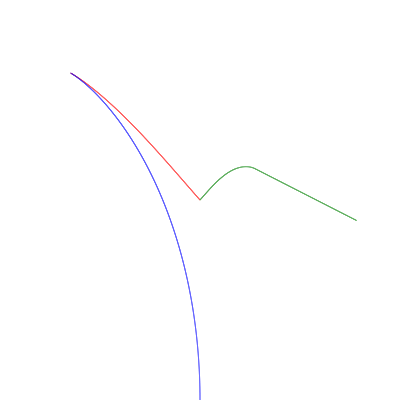
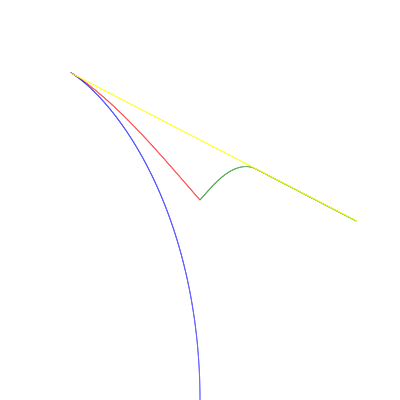
update

diff --git a/wolf-sheep-cn.html b/wolf-sheep-cn.html
@@ -213,9 +213,9 @@ class="math inline">||<em>W</em><em>A</em>|| + ||<em>A</em><em>G</em>||</spa
 class="math inline">||<em>W</em><em>B</em>|| ≤ ||<em>W</em><em>A</em>||</span>.</p>
 <p>结果如图 <img src="./wolf-sheep/tricky.png" alt="tricky.png" /> 另见
 <a href="./wolf-sheep/racing.html">racing.html</a> tricky 策略结果</p>
-<p>在时刻 1.819 时, 狼在坐标 (-0.6467803614726987, 0.6345802337671108)
-捉到羊 A. 此时羊 B 位于 (0.7832758424369813, -0.10277986541692728),
-两羊相距 1.6089626043538923 总时间 5.036925208707695.</p>
+<p>在时刻 1.82 时, 狼在坐标 (-0.6459131471422915, 0.6362020246019914)
+捉到羊 A. 此时羊 B 位于 (0.7817926466362477, -0.10550243694239525),
+两羊相距 1.6088720713169389 总时间 5.037744142633788</p>
 <p>实现见 <a href="./wolf-sheep/tricky.js">tricky.js</a>.</p>
 </body>
 </html>

diff --git a/wolf-sheep/scratch.html b/wolf-sheep/scratch.html
@@ -1,0 +1,18 @@
+<html lang="en">
+<head>
+    <script src="draw.js" ></script>
+    <script src="agent.js" ></script>
+    <script>
+        function on_load() {
+          const canvas = document.getElementById("canvas")
+          const draw = new Draw(canvas, 2, 2)
+          draw.line({"x":-0.6824966234801522,"y":0.5629660456000858}, {"x":0.8119642206777624,"y":-0.04730746482959347}, "red")
+          draw.line({"x":-0.6467803614726987,"y":0.6345802337671108}, {"x":0.7832758424369813,"y":-0.10277986541692728}, "green")
+        }
+        window.addEventListener("load", () => {
+          on_load()
+        });
+    </script>
+</head>
+<canvas id="canvas" width="400" height="400"></canvas>
+</html>

diff --git a/wolf-sheep/wolf-sheep.js b/wolf-sheep/wolf-sheep.js
@@ -41,6 +41,9 @@ class Game {
     console.log("sheep1: " + JSON.stringify(this.sheep1.position()) + "\nsheep2: " + JSON.stringify(this.sheep2.position()) + "\ndistance: " + this.sheep1.distanceTo(this.sheep2))
     const t2 = this.sheep1.distanceTo(this.sheep2) / (this.wolf.speed - this.sheep1.speed);
     console.log("it takes " + t1 + " to catch sheep1, total time: " + (t1 + t2));
+    if (this.strategy.final1 != null) {
+      this.line(ctx, this.strategy.final1, this.strategy.final2, "yellow")
+    }
   }
 
   line(ctx, old, agent, color) {

diff --git a/wolf-sheep.html b/wolf-sheep.html
@@ -207,7 +207,7 @@ class="math inline">||<em>W</em><em>B</em>|| ≥ ||<em>W</em><em>A</em>||</s
 <p>Result from page <a href="./wolf-sheep/racing.html">racing.html</a>
 tricky strategy: <img src="./wolf-sheep/tricky.png"
 alt="tricky.png" /></p>
-<p>total time: 5.036925208707695.</p>
+<p>total time: 5.037744142633788.</p>
 <p>source code: <a href="./wolf-sheep/tricky.js">tricky.js</a></p>
 </body>
 </html>

diff --git a/wolf-sheep/tricky.js b/wolf-sheep/tricky.js
@@ -3,8 +3,8 @@ class TrickyStrategy extends DefaultStrategy {
 
   constructor(dt) {
     super()
-    this.final1 = {"x":-0.6502053848303994,"y":0.6288089665383846}
-    this.final2 = {"x":0.7844011950442196,"y":-0.10195242127013827}
+    this.final1 = {x:-0.6465128189358089, y:0.6348648635672964}
+    this.final2 = {x:0.782406552358925, y:-0.10422223603672934}
     this.dt = dt
   }
 

diff --git a/wolf-sheep/sym-cn.md b/wolf-sheep/sym-cn.md
@@ -33,3 +33,66 @@ sheep1: {"x":-0.6824966234801522,"y":0.5629660456000858}
 sheep2: {"x":0.8119642206777624,"y":-0.04730746482959347}
 distance: 1.6142636006096867
 wolf-sheep.js:43 it takes 1.7749999999999153 to catch sheep1, total time: 5.003527201219288
+=>
+sheep1: {"x":-0.6654514791833911,"y":0.6002621838357557}
+sheep2: {"x":0.7953878284086704,"y":-0.08258106626444016}
+distance: 1.6125527547381056
+wolf-sheep.js:43 it takes 1.7999999999999126 to catch sheep1, total time: 5.0251055094761234
+=>
+sheep1: {"x":-0.6537494855568274,"y":0.6221179076470617}
+sheep2: {"x":0.7892521796482567,"y":-0.09280659763466251}
+distance: 1.6103946268033071
+wolf-sheep.js:43 it takes 1.8119999999999112 to catch sheep1, total time: 5.032789253606525
+=>
+sheep1: {"x":-0.6502053848303994,"y":0.6288089665383846}
+sheep2: {"x":0.7844011950442196,"y":-0.10195242127013827}
+distance: 1.6100025605356627
+wolf-sheep.js:43 it takes 1.8159999999999108 to catch sheep1, total time: 5.036005121071236
+=>
+sheep1: {"x":-0.6467803614726987,"y":0.6345802337671108}
+sheep2: {"x":0.7832758424369813,"y":-0.10277986541692728}
+distance: 1.6089626043538923
+wolf-sheep.js:43 it takes 1.8189999999999105 to catch sheep1, total time: 5.036925208707695
+=>
+sheep1: {"x":-0.6462452763989193,"y":0.6351494933674822}
+sheep2: {"x":0.7815372622808686,"y":-0.10566460665653139}
+distance: 1.6085299215598352
+wolf-sheep.js:43 it takes 1.8189999999999105 to catch sheep1, total time: 5.036059843119581
+
+>>> (-0.6467803614726987+-0.6462452763989193)/2 = -0.6465128189358089
+>>> (0.6345802337671108+0.6351494933674822)/2 = 0.6348648635672964
+{x:-0.6465128189358089, y:0.6348648635672964}
+>>> (0.7832758424369813+0.7815372622808686)/2 = 0.782406552358925
+>>> (-0.10277986541692728+-0.10566460665653139)/2 = -0.10422223603672934
+{x:0.782406552358925, y:-0.10422223603672934}
+
+=>
+sheep1: {"x":-0.6459131471422915,"y":0.6362020246019914}
+sheep2: {"x":0.7817926466362477,"y":-0.10550243694239525}
+distance: 1.6088720713169389
+wolf-sheep.js:43 it takes 1.8199999999999104 to catch sheep1, total time: 5.037744142633788
+=>
+sheep1: {"x":-0.6452488128093686,"y":0.6369018508854347}
+sheep2: {"x":0.7813417017095368,"y":-0.10571449152444583}
+distance: 1.6083033072556756
+wolf-sheep.js:43 it takes 1.8199999999999104 to catch sheep1, total time: 5.036606614511261
+
+sheep1: {"x":-0.6467803614726987,"y":0.6345802337671108}+{"x":-0.6459131471422915,"y":0.6362020246019914}/2=
+{x:-0.6463467543074951,y:0.6353911291845511}
+sheep2: {"x":0.7832758424369813,"y":-0.10277986541692728}+{"x":0.7817926466362477,"y":-0.10550243694239525}/2=
+{x:0.7825342445366146, y:-0.10414115117966127}
+=>
+sheep1: {"x":-0.6455277214159052,"y":0.6359071768063111}
+sheep2: {"x":0.781217836011348,"y":-0.10557512456242174}
+distance: 1.6079175628375593
+wolf-sheep.js:43 it takes 1.8189999999999105 to catch sheep1, total time: 5.034835125675029
+
+sheep1: {"x":-0.6463467543074951,"y":0.6359071768063111}+{"x":-0.6459131471422915,"y":0.6362020246019914}/2=
+{x:-0.6461299507248933,y:0.6360546007041512}
+sheep2: {"x":0.781217836011348,"y":-0.10557512456242174}+{"x":0.7817926466362477,"y":-0.10550243694239525}/2=
+{x:0.7815052413237978, y:-0.1055387807524085}
+=>
+sheep1: {"x":-0.6451893486914871,"y":0.6369655672457873}
+sheep2: {"x":0.7813947637248524,"y":-0.1055664909373464}
+distance: 1.6082587127786363
+wolf-sheep.js:43 it takes 1.8199999999999104 to catch sheep1, total time: 5.036517425557183

diff --git a/wolf-sheep.md b/wolf-sheep.md
@@ -41,6 +41,6 @@ while sheep B should run away from F and keeping $||WB||\ge||WA||$.
 Result from page [racing.html](./wolf-sheep/racing.html) tricky strategy:
 ![tricky.png](./wolf-sheep/tricky.png)
 
-total time: 5.036925208707695.
+total time: 5.037744142633788.
 
 source code: [tricky.js](./wolf-sheep/tricky.js)
